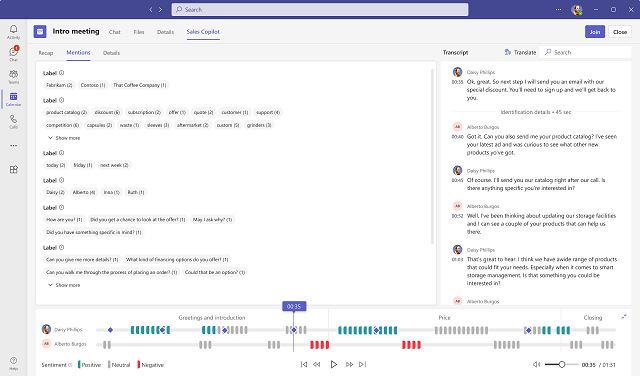
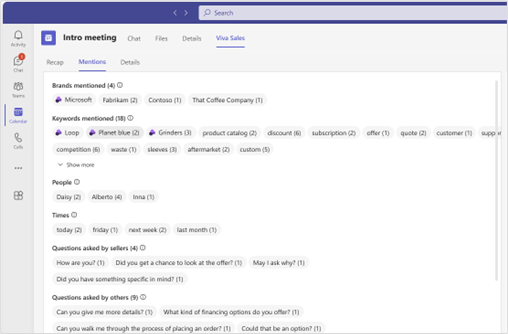
People.ai and Viva Topics integration
Category: New-Content

Workitem: https://dev.azure.com/dynamicscrm/OneCRM/_workitems/edit/3612758

Description: People.ai and Viva Topics integration

diff --git a/articles/view-record-details.md b/articles/view-record-details.md
@@ -1,7 +1,7 @@
 ---
 title: View record details
 description: Learn how to view record details.
-ms.date: 08/28/2023
+ms.date: 10/09/2023
 ms.topic: article
 ms.service: microsoft-sales-copilot
 author: sbmjais
@@ -21,6 +21,10 @@ You can view details about your saved contact and its related records such as ac
 
    :::image type="content" source="media/opportunities.png" alt-text="Screenshot showing how to select a record to see its details.":::
 
+If you have a license for People.ai and the capability to display insights from People.ai is [enabled by your administrator](use-extensions.md#integrate-with-peopleai), insights from People.ai are displayed for contacts, opportunities, and accounts. More information: [View People.ai insights](#view-peopleai-insights)
+
+## Open a record in CRM
+
 You can also open a record in CRM to view its complete details. In record details, select **More actions** (**...**), and then select **Open in Dynamics 365** or **Open in Salesforce**. The record details will open in a new tab.
 
 :::image type="content" source="media/open-dynamics.png" alt-text="Screenshot showing the open in CRM icon.":::
@@ -28,3 +32,24 @@ You can also open a record in CRM to view its complete details. In record detail
 Alternately, you can also open a record in CRM from the **Dynamics 365** or **Salesforce** tab. Hover over a record, select **More actions** (**...**), and then select **Open in Dynamics 365** or **Open in Salesforce**.
 
 :::image type="content" source="media/more-actions.png" alt-text="Screenshot showing how to open a record in CRM.":::
+
+## View People.ai insights
+
+**Prerequisites**: 
+
+- The People.ai integration must be enabled by your administrator. 
+- You must have a license for People.ai.
+
+Insights from People.ai are displayed in a new card for contacts and accounts, and under the **Insights from People.ai** section for opportunities. Insights are displayed with citation numbers. Select the citation number to drill down and see detailed information. For contact and account records, data from the past 90 days is considered to generate insights.
+
+The following insights are displayed:
+
+- **Engagement level**: This is the overall engagement level. The engagement level is calculated based on  interactions (emails and meetings) that have happened with the customer. The engagement level is displayed as low, medium, or high. When you drill down into the engagement level and trend, you can see the total number of activities, along with the breakdown of the number of meetings and emails that have been exchanged with the customer. To open metrics in People.ai, select :::image type="icon" source="media/open-record.png" border="false"::: at the bottom-right of the card.
+
+- **Connections**: This insight suggests the names of your colleagues who have interacted with the customer through emails or meetings. It helps you quickly email your colleagues to request an introduction. When you drill down, you can see the names of the people. By default, the top three connections are displayed. 
+
+    To quickly start an email with one of the top connections, hover over the name, and then select :::image type="icon" source="media/mail-icon.png" border="false":::.
+
+    To see all connections or more metrics, you must go to People.ai. Select :::image type="icon" source="media/open-record.png" border="false"::: at the bottom-right of the card to open People.ai.
+
+- **Predicted buying power**: This insight is displayed only for a contact. It shows the likely range of buying power of the contact. The buying power is calculated based on the number of deals that the contact has closed in the past 90 days. The closed deals are compared with similar won opportunities involving stakeholders who are similar to the contact in terms of their title, department, and industry. When you drill down, you can see detailed information. To open metrics in People.ai, select   at the bottom-right of the card.

diff --git a/articles/view-opportunity-summary.md b/articles/view-opportunity-summary.md
@@ -1,7 +1,7 @@
 ---
 title: View opportunity summary
 description: Learn how to view an opportunity summary.
-ms.date: 09/05/2023
+ms.date: 10/09/2023
 ms.topic: article
 ms.service: microsoft-sales-copilot
 author: sbmjais
@@ -13,6 +13,8 @@ ms.author: shjais
 When reading an email or preparing for a meeting with a customer, you want to have relevant information from CRM, such as the customer asks, concerns, and notes, to help you get better context before the meeting.
 
 Sales Copilot uses AI to generate a summary of each opportunity with key information like sales stage, budget, and close date. This helps you interact better with customers and boost sales and customer satisfaction.
+
+If you have a license for People.ai and the capability to display insights from People.ai is [enabled by your administrator](use-extensions.md#integrate-with-peopleai), insights from People.ai are displayed in the opportunity summary under the **Insights from People.ai** section. 
 
 If there are notes added to the opportunity, they are also summarized and displayed under the **Latest activity** section. If you've [saved an email summary to the opportunity](view-save-email-summary-crm.md#save-email-summary-to-crm), it's included in the summarized notes. The notes summary highlights any issues or concerns addressed within notes. It makes it easy to catch up on the latest updates and quickly prepare for meetings with potential buyers.
 
@@ -40,6 +42,26 @@ If there are notes added to the opportunity, they are also summarized and displa
 1. Open the **Sales Copilot** pane.
 
     On the **Highlights** tab, the opportunity summary is displayed in the **Opportunity summary** card.
+
+## View People.ai insights in opportunity summary
+
+**Prerequisites**: 
+
+- The People.ai integration must be enabled by your administrator. 
+- You must have a license for People.ai.
+
+Insights from People.ai are displayed under the **Insights from People.ai** section. Insights are displayed with citation numbers. Select the citation number to drill down and see detailed information.
+
+The following insights are displayed:
+
+- **Engagement level**: This is the overall engagement level. The engagement level is calculated based on  interactions (emails and meetings) that have happened with the customer. The engagement level is displayed as low, medium, or high. When you drill down into the engagement level and trend, you can see the total number of activities, along with the breakdown of the number of meetings and emails that have been exchanged with the customer. To open metrics in People.ai, select :::image type="icon" source="media/open-record.png" border="false"::: at the bottom-right of the card.
+
+- **Connections**: This insight suggests the names of your colleagues who have interacted with the customer through emails or meetings. It helps you quickly email your colleagues to request an introduction. When you drill down, you can see the names of the people. By default, the top three connections are displayed. 
+
+    To quickly start an email with one of the top connections, hover over the name, and then select :::image type="icon" source="media/mail-icon.png" border="false":::.
+
+    To see all connections or more metrics, you must go to People.ai. Select :::image type="icon" source="media/open-record.png" border="false"::: at the bottom-right of the card to open People.ai.
+
 
 ## View data source in opportunity summary
 

diff --git a/articles/view-understand-meeting-summary.md b/articles/view-understand-meeting-summary.md
@@ -1,7 +1,7 @@
 ---
 title: View and understand the meeting summary
 description: Learn how to view and understand the meeting summary.
-ms.date: 08/28/2023
+ms.date: 10/09/2023
 ms.topic: article
 ms.service: microsoft-sales-copilot
 author: sbmjais
@@ -71,7 +71,7 @@ The **Mentions** tab displays keywords, stakeholders, products, and competitors 
 
 - **Products**: Displays the names of the products mentioned during the call; for example, "I only know how to use a Fabrikam LED TV".
 
-- **Best-practice keywords**: Displays keywords that can be used as best practices during the call.
+- **Keywords**: Displays keywords that can be used as best practices during the call. If topics are identified in the transcript, they are displayed first and then rest of the keywords are displayed. More information: [View Viva Topics in meeting summary](#view-viva-topics-in-meeting-summary)
 
 - **Other brands and organizations**: Displays brand and organization names (other than your own) that the customer mentioned during the call.
 
@@ -80,6 +80,14 @@ The **Mentions** tab displays keywords, stakeholders, products, and competitors 
 - **Questions asked by others**: Displays questions asked by the other participants during the call.
 
 - **Times**: Displays the time periods mentioned during the call.
+
+#### View Viva Topics in meeting summary
+
+Viva Topics helps you access information when you need it so you can be more productive and work smarter. It uses AI to automatically search for and identify topics in your organization. It compiles information about them, such as a short description, people working on the topic, and sites, files, and pages that are related to it. For more information about Viva Topics, go to [Understanding Viva Topics](https://support.microsoft.com/office/understanding-viva-topics-5bef3020-2679-4045-81cb-bcbc37218332).
+
+If the feature is enabled by your administrator and you have a license to use Viva Topics, topics are scanned from the meeting transcript, and displayed along with other keywords. If a keyword with a category such as brand, people, or times was found, it is displayed under that category. Keywords that are also topics are indicated with :::image type="icon" source="media/viva-topics-icon.jpg" border="false":::. Topics and their contents are not stored in Dataverse.
+
+To view details of a topic, hover over the keyword to open its card. By default, it is opened in its default view. To open the extended view, select **More** under topic description.
 
 :::image type="content" source="media/mentions.png" alt-text="Screenshot showing the Mentions tab in Viva Sales meeting summary.":::
 

diff --git a/articles/use-extensions.md b/articles/use-extensions.md
@@ -1,0 +1,45 @@
+---
+title: Use extensions to integrate with third-party applications
+description: Learn how to use extensions to integrate with third-party applications
+ms.date: 10/09/2023
+ms.topic: article
+ms.service: microsoft-sales-copilot
+author: sbmjais
+ms.author: shjais
+---
+
+# Use extensions
+
+You can use extensions to integrate with third-party applications. Integration helps you enhance the functionality of Sales Copilot and adds insights for your salespeople.
+
+## Integrate with Viva Topics
+
+Integrate with Viva Topics give your sellers a quick way of finding files related to sales meetings. Viva Topics detects keywords in the Teams transcript. Then, in the summary, sellers can see content that seems to be related to these keywords. 
+
+By default, the integration is disabled. When enabled, identified topics are displayed on the **Mentions** tab when viewing a meeting summary.
+
+> [!NOTE]
+> Sellers must have a license of Viva Topics to see them in meeting summary.
+
+### Turn on Viva Topics integration
+
+1.	In Sales Copilot admin settings, select **Extensions**.
+2.	Turn on Microsoft **Viva Topics (preview)**.
+3.	Select **Save**.
+
+
+## Integrate with People.ai
+
+Integrate with People.ai to get insights into your sellers' activities and their engagement with customers. The insights are based on the data that is collected from your sellers' email and meeting. People.ai displays insights for contacts, opportunities, and accounts. By default, the integration is disabled. When enabled, the insights are displayed in the detailed view of a record as well as in the **Opportunity summary** card in the **Sales Copilot** pane in Outlook.
+
+### Prerequisites
+
+- You must generate an API key and API secret from admin settings in People.ai. They are used to authenticate and connect you with People.ai. 
+- Connect Sales Copilot to Salesforce CRM. Currently, insights from People.ai are displayed only for Salesforce CRM users.
+
+### Turn on People.ai integration
+
+1.	In Sales Copilot admin settings, select **Extensions**.
+2.	Turn on **People.ai (preview)**.
+3.	Enter the values for API key and API Secret.
+4.	Select **Save**.
